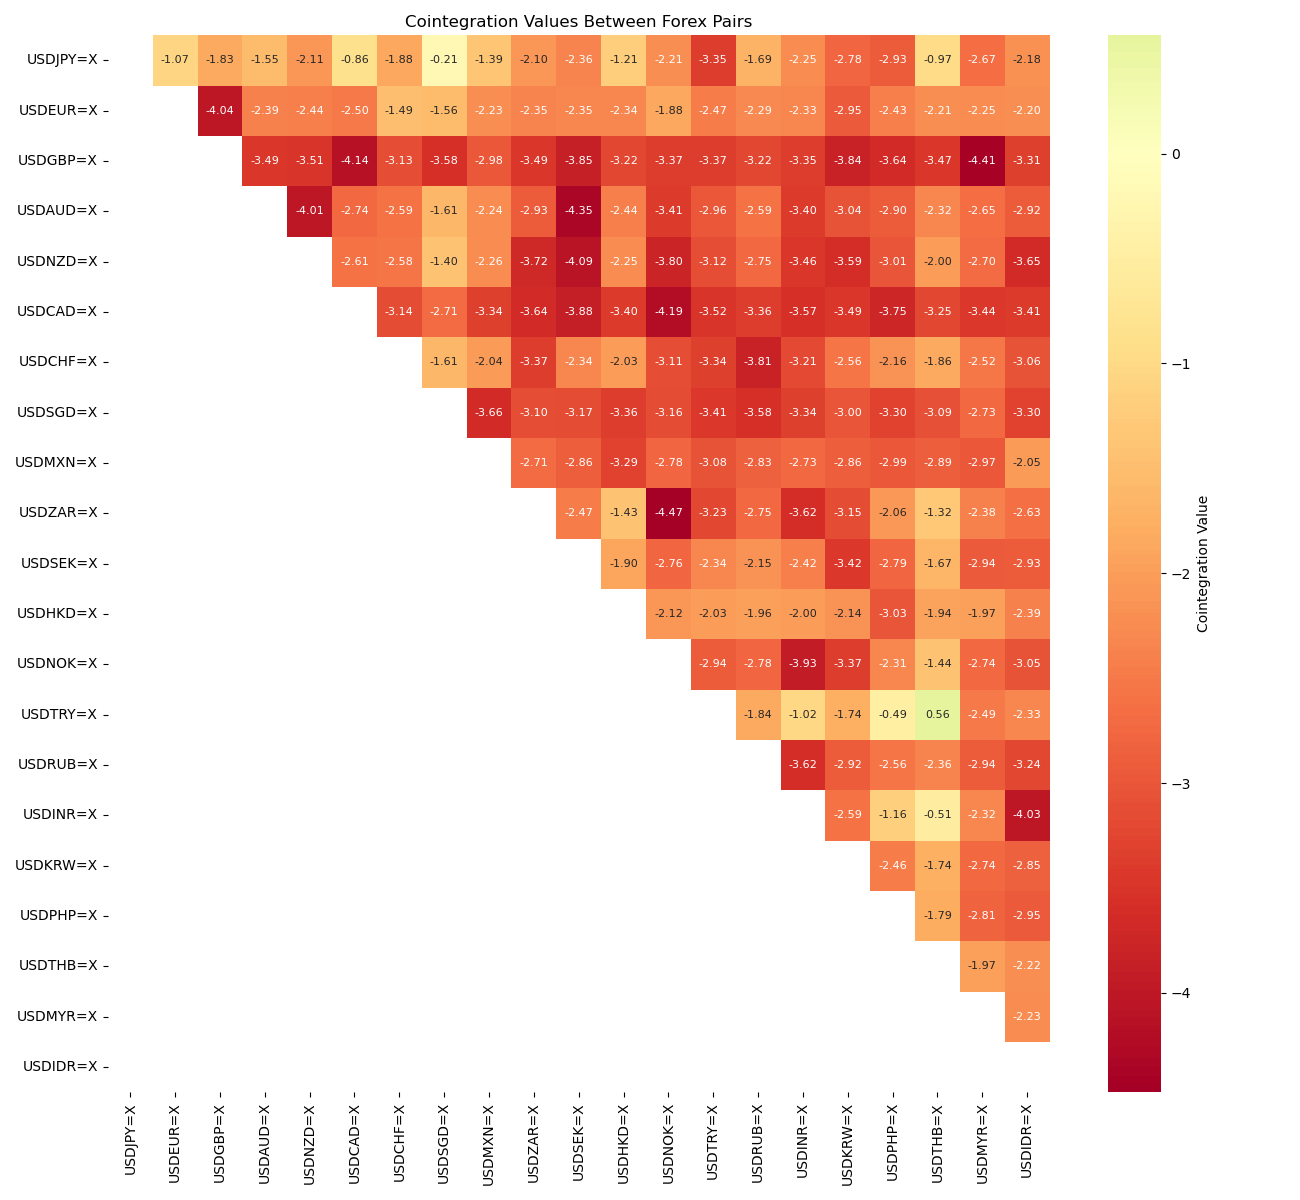
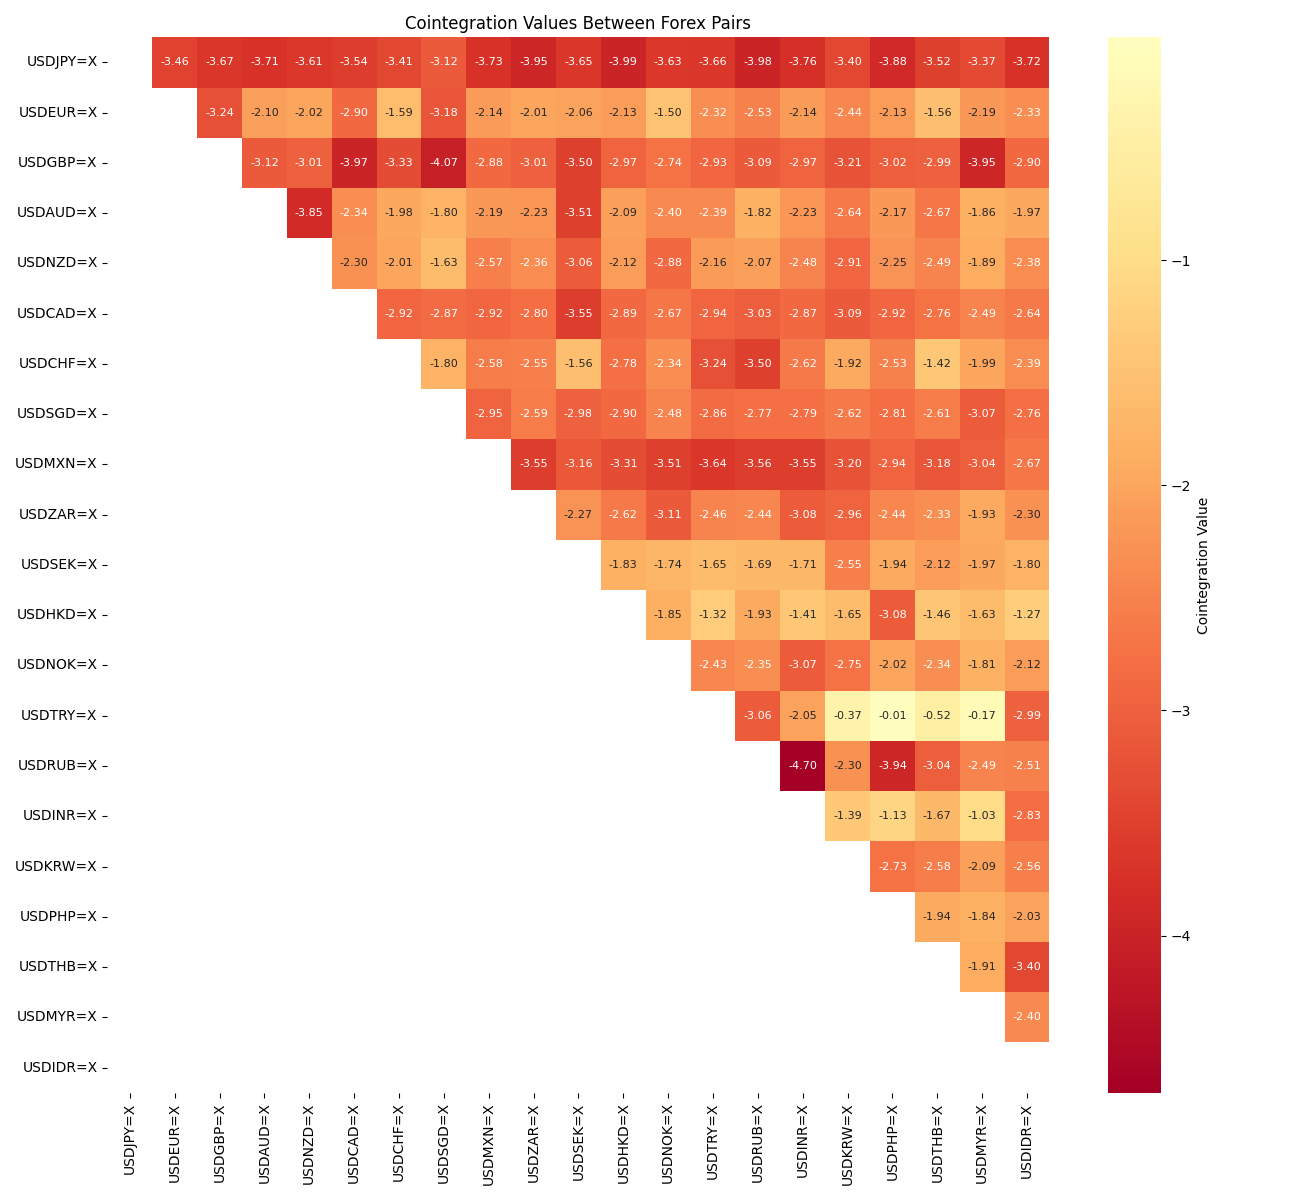
update fx pair eda

diff --git a/AUD NZD EDA/4_cointegration._table_v2.py b/AUD NZD EDA/4_cointegration._table_v2.py
@@ -1,0 +1,110 @@
+import yfinance as yf
+import pandas as pd
+import numpy as np
+from statsmodels.tsa.stattools import coint
+import matplotlib.pyplot as plt
+from sklearn.model_selection import train_test_split
+
+def generate_cointegration_matrix(forex_pairs, start_date, end_date, interval='1d'):
+    # Create a DataFrame to store the adjusted close prices of all forex pairs
+    data = pd.DataFrame()
+
+    # Download the adjusted close prices for each forex pair
+    for forex in forex_pairs:
+        try:
+            data[forex] = yf.Ticker(forex).history(start=start_date, end=end_date, interval=interval)["Close"]
+        except Exception as e:
+            print(f"Error downloading data for {forex}: {e}")
+            data[forex] = pd.Series(dtype='float64')
+
+    # Replace infinite or missing values with NaN
+    data.replace([np.inf, -np.inf], np.nan, inplace=True)
+    data.dropna(inplace=True)
+
+    # Split data into train and test sets
+    train_data, test_data = train_test_split(data, test_size=0.3, shuffle=False)
+
+    # Calculate cointegration and p-values
+    cointegration_results = pd.DataFrame(index=forex_pairs, columns=forex_pairs)
+    p_values = pd.DataFrame(index=forex_pairs, columns=forex_pairs)
+    
+    for i in range(len(forex_pairs)):
+        for j in range(i+1, len(forex_pairs)):
+            result = coint(train_data[forex_pairs[i]], train_data[forex_pairs[j]])
+            p_values.loc[forex_pairs[i], forex_pairs[j]] = result[1]
+            cointegration_results.loc[forex_pairs[i], forex_pairs[j]] = result[0]
+
+    # Stack the DataFrame to get pairs and their corresponding p-values and cointegration scores
+    p_values_stacked = p_values.stack().reset_index()
+    p_values_stacked.columns = ['Pair 1', 'Pair 2', 'P-Value']
+    
+    cointegration_stacked = cointegration_results.stack().reset_index()
+    cointegration_stacked.columns = ['Pair 1', 'Pair 2', 'Cointegration']
+
+    # Merge the DataFrames
+    merged_results = pd.merge(p_values_stacked, cointegration_stacked, on=['Pair 1', 'Pair 2'])
+
+    # Round p-values and cointegration values to 3 decimal places
+    merged_results['P-Value'] = merged_results['P-Value'].map(lambda x: f"{float(x):.5f}")
+    merged_results['Cointegration'] = merged_results['Cointegration'].map(lambda x: f"{float(x):.3f}")
+
+    # Sort the DataFrame by p-values and select top 10
+    top_10_results = merged_results.sort_values(by='P-Value').head(10)
+
+    return top_10_results
+
+
+# Usage
+forex_pairs = [
+    "USDJPY=X",  # US Dollar / Japanese Yen
+    "USDEUR=X",  # US DOllar / Euro
+    "USDGBP=X",  # US Dollar / British Pound
+    "USDAUD=X",  # US Dollar / Australian Dollar
+    "USDNZD=X",  # US Dollar / New Zealand Dollar
+    "USDCAD=X",  # US Dollar / Canadian Dollar
+    "USDCHF=X",  # US Dollar / Swiss Franc
+    "USDSGD=X",  # US Dollar / Singapore Dollar
+    "USDMXN=X",  # US Dollar / Mexican Peso
+    "USDZAR=X",  # US Dollar / South African Rand
+    "USDSEK=X",  # US Dollar / Swedish Krona
+    "USDHKD=X",  # US Dollar / Hong Kong Dollar
+    "USDNOK=X",  # US Dollar / Norwegian Krone
+    "USDTRY=X",  # US Dollar / Turkish Lira
+    # "USDRUB=X",  # US Dollar / Russian Ruble
+    "USDINR=X",  # US Dollar / Indian Rupee
+    "USDKRW=X",  # US Dollar / South Korean Won
+    "USDPHP=X",  # US Dollar / Philippine Peso
+    "USDTHB=X",  # US Dollar / Thai Baht
+    # "USDMYR=X",  # US Dollar / Malaysian Ringgit
+    "USDIDR=X",  # US Dollar / Indonesian Rupiah
+]
+
+start_date = '2016-01-01'
+end_date = '2023-12-31'
+top_10_results = generate_cointegration_matrix(forex_pairs, start_date, end_date)
+
+plt.figure(figsize=(7, 6))  # Adjust figure size if needed
+table = plt.table(cellText=top_10_results.values,
+                  colLabels=top_10_results.columns,
+                  loc='center',
+                  cellLoc='center',  # Center the cell text
+                  colColours=['darkblue']*len(top_10_results.columns),  # Header color
+                  cellColours=[['white']*len(top_10_results.columns)]*len(top_10_results),  # Cell color
+                  )
+table.auto_set_font_size(False)
+table.set_fontsize(12)
+table.scale(1.2, 1.5)  # Scale down the table horizontally
+for key, cell in table.get_celld().items():
+    if key[0] == 0:
+        cell.set_text_props(color='white')
+plt.axis('off')
+
+# Align text vertically to center
+for key, cell in table._cells.items():
+    cell._text.set_verticalalignment('center')
+
+plt.subplots_adjust(left=0.1, bottom=0.1, right=0.9, top=0.9)  # Adjust margins for full visibility
+
+# Save the table as an image
+plt.savefig('X4_Cointegration_table.png')
+plt.show()

diff --git a/AUD NZD EDA/3_cointegration_v2.py b/AUD NZD EDA/3_cointegration_v2.py
@@ -1,0 +1,84 @@
+import yfinance as yf
+import pandas as pd
+import seaborn as sns
+import matplotlib.pyplot as plt
+import numpy as np
+from statsmodels.tsa.stattools import coint
+from sklearn.model_selection import train_test_split
+
+def generate_cointegration_matrix(forex_pairs, start_date, end_date, interval='1d'):
+    # Create a DataFrame to store the adjusted close prices of all forex pairs
+    data = pd.DataFrame()
+
+    # Download the adjusted close prices for each forex pair
+    for forex in forex_pairs:
+        try:
+            data[forex] = yf.Ticker(forex).history(start=start_date, end=end_date, interval=interval)["Close"]
+        except Exception as e:
+            print(f"Error downloading data for {forex}: {e}")
+            data[forex] = pd.Series(dtype='float64')
+
+    # Replace infinite or missing values with NaN
+    data.replace([np.inf, -np.inf], np.nan, inplace=True)
+    data.dropna(inplace=True)
+
+    # Split data into train and test sets
+    train_data, test_data = train_test_split(data, test_size=0.3, shuffle=False)
+
+    # Calculate cointegration and p-values
+    cointegration_matrix = pd.DataFrame(index=forex_pairs, columns=forex_pairs)
+    p_values = pd.DataFrame(index=forex_pairs, columns=forex_pairs)
+    
+    for i in range(len(forex_pairs)):
+        for j in range(i+1, len(forex_pairs)):
+            result = coint(train_data[forex_pairs[i]], train_data[forex_pairs[j]])
+            cointegration_matrix.loc[forex_pairs[i], forex_pairs[j]] = result[0]
+            p_values.loc[forex_pairs[i], forex_pairs[j]] = result[1]
+
+    return cointegration_matrix, p_values
+
+
+# Usage
+forex_pairs = [
+    "USDJPY=X",  # US Dollar / Japanese Yen
+    "USDEUR=X",  # US DOllar / Euro
+    "USDGBP=X",  # US Dollar / British Pound
+    "USDAUD=X",  # US Dollar / Australian Dollar
+    "USDNZD=X",  # US Dollar / New Zealand Dollar
+    "USDCAD=X",  # US Dollar / Canadian Dollar
+    "USDCHF=X",  # US Dollar / Swiss Franc
+    "USDSGD=X",  # US Dollar / Singapore Dollar
+    "USDMXN=X",  # US Dollar / Mexican Peso
+    "USDZAR=X",  # US Dollar / South African Rand
+    "USDSEK=X",  # US Dollar / Swedish Krona
+    "USDHKD=X",  # US Dollar / Hong Kong Dollar
+    "USDNOK=X",  # US Dollar / Norwegian Krone
+    "USDTRY=X",  # US Dollar / Turkish Lira
+    # "USDRUB=X",  # US Dollar / Russian Ruble
+    "USDINR=X",  # US Dollar / Indian Rupee
+    "USDKRW=X",  # US Dollar / South Korean Won
+    "USDPHP=X",  # US Dollar / Philippine Peso
+    "USDTHB=X",  # US Dollar / Thai Baht
+    # "USDMYR=X",  # US Dollar / Malaysian Ringgit
+    "USDIDR=X",  # US Dollar / Indonesian Rupiah
+]
+
+start_date = '2016-01-01'
+end_date = '2023-12-31'
+cointegration_matrix, p_values = generate_cointegration_matrix(forex_pairs, start_date, end_date)
+
+# Generate Heatmap for cointegration values
+plt.figure(figsize=(13, 12))  # Adjust figure size
+plt.title('Cointegration Values Between Forex Pairs')
+heatmap_coint = sns.heatmap(cointegration_matrix.astype(float), annot=True, cmap='RdYlGn', fmt=".2f", center=0, cbar_kws={'label': 'Cointegration Value'}, annot_kws={"size": 8})
+plt.tight_layout()
+plt.savefig('X3_cointegration_matrix.png')
+plt.show()
+
+# Generate Heatmap for p-values
+plt.figure(figsize=(13, 12))  # Adjust figure size
+plt.title('P-Values Between Forex Pairs')
+heatmap_p_values = sns.heatmap(p_values.astype(float), annot=True, cmap='RdYlGn_r', fmt=".2f", center=0.05, cbar_kws={'label': 'P-Value'}, annot_kws={"size": 8})
+plt.tight_layout()
+plt.savefig('X3_p_values_heatmap.png')
+plt.show()

diff --git a/AUD NZD EDA/_main.py b/AUD NZD EDA/_main.py
@@ -1,0 +1,12 @@
+import subprocess
+
+# Define the paths to your Python files
+file_paths = ["1_correlation_matrix.py",
+              "2_correlation_table.py",
+              "3_cointegration_v2.py",
+              "4_cointegration_table_v2.py",
+              "5_fx_eda.py",]
+
+# Loop through each file and execute it
+for file_path in file_paths:
+    subprocess.run(["python", file_path])
